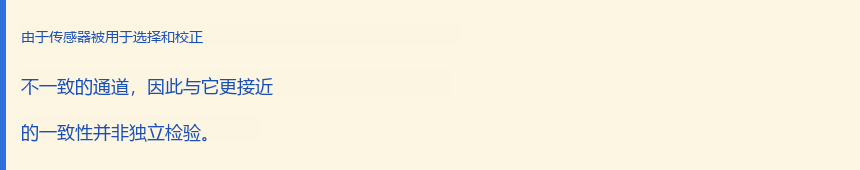
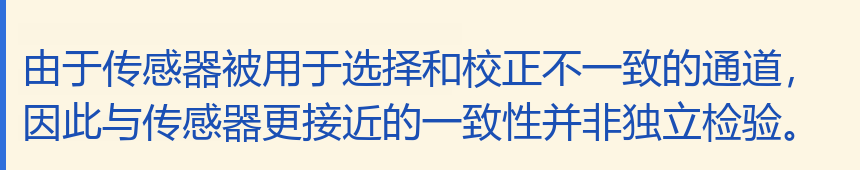
0.5.0: paragraph-level translation placed in each paragraph area

Changed region(s): [[0.0302, 0.2941, 0.9372, 0.5588], [0.0, 0.5882, 0.9372, 0.8529], [0.0302, 0.1765, 0.2419, 0.2647]]

diff --git a/lib/index.js b/lib/index.js
@@ -808,6 +808,78 @@ export function apply(ctx, config = {}) {
     }
   }
 
+  function groupLines(lines) {
+    const items = (lines || [])
+      .filter((line) => line && typeof line === 'object' && String(line.text || '').trim())
+      .map((line) => ({
+        ...line,
+        x: Number(line.x) || 0,
+        y: Number(line.y) || 0,
+        w: Number(line.w) || 0,
+        h: Number(line.h) || 0,
+      }))
+      .sort((a, b) => a.y - b.y)
+    if (!items.length) return []
+    const heights = items.map((line) => line.h).sort((a, b) => a - b)
+    const medianH = heights[Math.floor(heights.length / 2)] || 18
+    const groups = []
+    let current = null
+    for (const line of items) {
+      if (!current) { current = [line]; continue }
+      const prev = current[current.length - 1]
+      const gap = line.y - (prev.y + prev.h)
+      const leftDiff = Math.abs(line.x - prev.x)
+      const ratio = line.h / Math.max(1, prev.h)
+      if (gap <= medianH * 0.9 && leftDiff <= Math.max(24, medianH)
+        && ratio >= 0.7 && ratio <= 1.5) {
+        current.push(line)
+      } else {
+        groups.push(current)
+        current = [line]
+      }
+    }
+    if (current) groups.push(current)
+    return groups.map((group) => {
+      const x0 = Math.min(...group.map((line) => line.x))
+      const y0 = Math.min(...group.map((line) => line.y))
+      const x1 = Math.max(...group.map((line) => line.x + line.w))
+      const y1 = Math.max(...group.map((line) => line.y + line.h))
+      return {
+        rect: { x: x0, y: y0, w: x1 - x0, h: y1 - y0 },
+        lines: group,
+        text: group.map((line) => String(line.text).trim()).join(' '),
+      }
+    })
+  }
+
+  async function aiTranslateBlocks(blocks, target) {
+    if (!llmService) return null
+    const picked = await pickModel(false)
+    if (!picked) return null
+    const source = blocks.map((block, index) => `【${index + 1}】${block.text}`).join('\n')
+    const prompt = [
+      `把下面每个段落的文字翻译成${targetName(target)}。`,
+      '必须保持段落数完全一致：第 i 段译文对应第 i 段原文，不要合并、不要拆分、不要省略编号。',
+      '原文可能来自 OCR，包含错字；请结合上下文纠正。术语：bin→频段、spectral index→光谱指数、leave-one-pair-out→留一配对交叉验证、fit→拟合。',
+      '只返回 JSON 数组，长度等于段落数，每个元素是该段译文：',
+      '["译文1","译文2", ...]',
+      '',
+      source,
+    ].join('\n')
+    const raw = await streamModel(picked, [{ type: 'text', text: prompt }], 5000)
+    let text = String(raw || '').trim().replace(/^```(?:json)?\s*/i, '').replace(/```\s*$/i, '').trim()
+    const start = text.indexOf('[')
+    const end = text.lastIndexOf(']')
+    if (start < 0 || end <= start) return null
+    try {
+      const value = JSON.parse(text.slice(start, end + 1))
+      if (!Array.isArray(value) || value.length !== blocks.length) return null
+      return value.map((item) => String(item ?? '').trim())
+    } catch {
+      return null
+    }
+  }
+
   aiTextHook = aiTranslateText
   aiVisionHook = aiTranslateImage
   log('ai translation', llmService ? 'available' : 'unavailable', attachmentService ? 'attachments' : 'no-attachments')
@@ -830,7 +902,36 @@ export function apply(ctx, config = {}) {
       log('ocr done', analysis.text.length, 'lines', analysis.lines.length, 'ai', ai ? 'yes' : 'no')
       const ocrText = tidyOcr(analysis.text)
 
-      // 逐行模式：每条 OCR 行单独翻译，画回它原来的行框，位置天然贴合原文。
+      // 段落模式：先按行距/缩进/字号把 OCR 行分成段落，整段翻译，再整块回填到该段矩形里。
+      // 这样跨行的句子不会被切断，整页多段也不会挤成一个块。
+      const blocks = groupLines(analysis.lines)
+      let blockTranslations = null
+      if (blocks.length > 0 && blocks.length <= 40) {
+        blockTranslations = await aiTranslateBlocks(blocks, targetLanguage).catch((error) => {
+          log('block translate failed', error?.message || String(error))
+          return null
+        })
+      }
+      if (blockTranslations && blockTranslations.length === blocks.length) {
+        const payloadBlocks = blocks.map((block, index) => ({ ...block, translated: blockTranslations[index] }))
+        const joined = blockTranslations.join(' ')
+        log('block mode', payloadBlocks.length, joined.slice(0, 40))
+        await helper.place({
+          rect: shot.rect,
+          imagePath: shot.path,
+          blocks: payloadBlocks,
+          original: (ai?.source || '').trim() || ocrText,
+          translated: joined,
+          source: 'auto',
+          target: targetLanguage,
+          provider: 'DeepSeek',
+        })
+        try { unlinkSync(shot.path) } catch {}
+        log('place sent (blocks)')
+        return { text: ocrText, translated: joined, provider: 'DeepSeek', source: 'auto', target: targetLanguage }
+      }
+
+      // 逐行兜底：段落翻译失败时，每条 OCR 行单独翻译，画回原来的行框。
       const rawLines = (analysis.lines || []).filter(
         (item) => item && typeof item === 'object' && String(item.text || '').trim())
       let perLine = null
@@ -911,7 +1012,7 @@ export function apply(ctx, config = {}) {
             pin: existsSync(join(LIB, 'pinwin.py')),
             target: targetLanguage,
             python: findPython(),
-            version: '0.4.1',
+            version: '0.5.0',
             hotkey: helper.hotkeyActive(),
           })
         }
@@ -1032,6 +1133,7 @@ export function apply(ctx, config = {}) {
     }, 1500)
   }
 }
+
 
 
 

diff --git a/lib/client.js b/lib/client.js
@@ -517,7 +517,7 @@ window.__ModuleLoader__.load({
 			window.__DTP_ACTIVE__ = api;
 			ctx.effect(() => () => dispose());
 			try {
-				Promise.resolve(callApi("clientReady", { version: "0.4.1" })).catch(() => {});
+				Promise.resolve(callApi("clientReady", { version: "0.5.0" })).catch(() => {});
 				Promise.resolve(callApi("capabilities"))
 					.then((value) => {
 						if (value && typeof value.target === "string") state.targetDefault = value.target;
@@ -560,6 +560,7 @@ window.__ModuleLoader__.load({
 		return module.exports;
 	},
 });
+
 
 
 

diff --git a/lib/pinwin.py b/lib/pinwin.py
@@ -516,10 +516,16 @@ class InPlaceWindow:
 
         self.bg, self.fg = self._sample_colors(self.crop)
         raw_lines = payload.get("lines") or []
+        raw_blocks = payload.get("blocks") or []
+        block_mode = bool(raw_blocks) and any(
+            isinstance(item, dict) and str(item.get("translated") or "").strip()
+            for item in raw_blocks)
         line_mode = bool(raw_lines) and any(
             isinstance(item, dict) and str(item.get("translated") or "").strip()
             for item in raw_lines)
-        if line_mode:
+        if block_mode:
+            base, original_img = self._compose_blocks(raw_blocks, w, h)
+        elif line_mode:
             base, original_img = self._compose_lines(raw_lines, w, h)
         else:
             line_rects = self._line_rects(raw_lines, w, h)
@@ -929,6 +935,78 @@ class InPlaceWindow:
             painter.text((x, y), line, font=font, fill=style["fg"])
 
         return base, self.crop.copy(), base.height
+
+    def _compose_blocks(self, blocks, width, height):
+        """按段落块翻译：整段文字在块内重新排版，但整块落在原文段落所在的矩形里。"""
+        base = self.crop.copy()
+        painter = ImageDraw.Draw(base)
+        font_path = self._font_path("中文")
+        for block in blocks:
+            if not isinstance(block, dict):
+                continue
+            text = str(block.get("translated") or "").strip()
+            lines = [item for item in (block.get("lines") or []) if isinstance(item, dict)]
+            rect = block.get("rect") or {}
+            if not text or not lines:
+                continue
+            try:
+                bx = int(rect.get("x", 0))
+                by = int(rect.get("y", 0))
+                bw = int(rect.get("w", 0))
+                bh = int(rect.get("h", 0))
+            except Exception:
+                continue
+            if bw < 20 or bh < 10:
+                continue
+            style = self._line_style(
+                (max(0, bx), max(0, by), min(width, bx + bw), min(height, by + bh)),
+                width, height)
+            # 只抹掉这个块里每一行文字，保留引用框的底色/竖线/边框。
+            for item in lines:
+                try:
+                    x0 = int(item.get("x", 0))
+                    y0 = int(item.get("y", 0))
+                    lw = int(item.get("w", 0))
+                    lh = int(item.get("h", 0))
+                except Exception:
+                    continue
+                if lw <= 0 or lh <= 0:
+                    continue
+                painter.rectangle(
+                    [max(0, x0 - 3), max(0, y0 - 3),
+                     min(width - 1, x0 + lw + 2), min(height - 1, y0 + lh + 2)],
+                    fill=style["bg"])
+            block_w = max(20, bw)
+            block_h = max(10, bh)
+            chosen = None
+            for size in range(max(7, min(40, int(block_h * 0.92))), 6, -1):
+                try:
+                    font = ImageFont.truetype(font_path, size) if font_path else ImageFont.load_default()
+                except Exception:
+                    font = ImageFont.load_default()
+                spacing = max(2, int(size * 0.35))
+                wrapped = self._wrap(painter, text, font, block_w)
+                total = len(wrapped) * size + (len(wrapped) - 1) * spacing
+                widest = max(painter.textlength(line, font=font) for line in wrapped)
+                if total <= block_h - 2 and widest <= block_w:
+                    chosen = (size, font, wrapped, spacing)
+                    break
+            if chosen is None:
+                size = 7
+                try:
+                    font = ImageFont.truetype(font_path, size) if font_path else ImageFont.load_default()
+                except Exception:
+                    font = ImageFont.load_default()
+                spacing = 0
+                wrapped = self._wrap(painter, text, font, block_w)
+                chosen = (size, font, wrapped, spacing)
+            size, font, wrapped, spacing = chosen
+            total = len(wrapped) * size + max(0, len(wrapped) - 1) * spacing
+            y = by + max(0, (block_h - total) // 2)
+            for line in wrapped:
+                painter.text((bx, y), line, font=font, fill=style["fg"])
+                y += size + spacing
+        return base, self.crop.copy()
 
     def _compose_lines(self, lines, width, height):
         """逐行替换：每条 OCR 行用自己的译文画回原来的行框，保证位置贴着原文。"""

diff --git a/tools/make_demo.py b/tools/make_demo.py
@@ -34,14 +34,13 @@ obj = object.__new__(pinwin.InPlaceWindow)
 obj.crop = before
 obj.bg = BG
 obj.fg = FG
-zh_lines = [
-    "由于传感器被用于选择和校正",
-    "不一致的通道，因此与它更接近",
-    "的一致性并非独立检验。",
-]
-lines = []
-for (x0, y0, x1, y1), zh in zip(rects, zh_lines):
-    lines.append({"x": x0, "y": y0, "w": x1 - x0, "h": y1 - y0, "translated": zh})
-after, _ = obj._compose_lines(lines, W, H)
+zh = "由于传感器被用于选择和校正不一致的通道，因此与传感器更接近的一致性并非独立检验。"
+block = {
+    "rect": {"x": 22, "y": 22, "w": 800, "h": 128},
+    "lines": [{"x": x0, "y": y0, "w": x1 - x0, "h": y1 - y0} for x0, y0, x1, y1 in rects],
+    "translated": zh,
+}
+after, _ = obj._compose_blocks([block], W, H)
 after.save("docs/demo-after.png")
 print("before", before.size, "after", after.size)
+

diff --git a/README.md b/README.md
@@ -8,7 +8,7 @@
 Selection and screenshot translation for DeepSeek Harness (Windows): DeepSeek vision reads the captured screenshot and the Chinese translation replaces the original area in place, so the page looks like it was written in Chinese.
 
 - **划词翻译**：在 DSH 里用鼠标选中外文，选区旁浮出「译」按钮，点一下就地出译文卡片。
-- **截图翻译**：框选屏幕上任意区域后，**逐行**识别并翻译：每一行英文的译文都画回这一行原来的位置，行距、颜色、引用框的底色/左侧竖线/边框都保留（字重统一正常体），整页多段也能对得上位置。
+- **截图翻译**：框选屏幕上任意区域后，自动按行距/缩进/字号把 OCR 行分成段落，**整段翻译**，再把整段译文回填到该段所在的区域；跨行句子不会被切断，引用框的底色/左侧竖线/边框和文字颜色都保留。
 - **问 AI**：框选后点「✨ 问 AI」，保留截图直接和模型对话，可以连续追问这张图里的内容。
 - **桌面浮标 + 全局快捷键**：右下角常驻「译」浮标，`Ctrl+Shift+S` 全局可用；**DSH 最小化后仍然在桌面上**，不用先切回 DSH。
 - **钉在桌面**：划词结果卡片可以「钉在桌面」，得到始终置顶、可拖动、可复制的对照小窗。
@@ -102,13 +102,13 @@ dsh plugin --profile <profile> add <本目录>
 1. 点击右下角「截图翻译」、桌面「译」浮标，或按 `Ctrl+Shift+S`（全局，DSH 最小化也能按）；
 2. 屏幕变暗，从**鼠标按下的那一点**开始拖拽框选；
 3. 松开后**不会立即翻译**：选区保持不动，右下角出现「✓ 翻译 / ✨ 问 AI / × 取消」；点 ✓ 才开始截图翻译，点 ✨ 打开问 AI 窗口，点 × 或 `Esc` 直接取消；想改范围就重新拖一次；
-4. 确认后 Windows OCR 先取每一行的行框与文字，DeepSeek 逐行翻译（保持行数一致），再生成一张**合成图**：每一行中文画回原来的行框，逐行采样底色和文字颜色，引用框的底色、左侧竖线、边框原样保留——每一行译文都贴着对应原文的位置；
+4. 确认后 Windows OCR 先取每一行的行框与文字，按行距/缩进/字号分成段落，DeepSeek 整段翻译，再生成一张**合成图**：每个段落的中文在它原来的矩形内重新排版，逐段采样底色和文字颜色，引用框的底色、左侧竖线、边框原样保留——每段译文都落在原文所在的区域里；
 5. 静止时有 **3px 直角灰色渐变边框**（外 `#9aa0aa` → 内 `#d9dce2`，无圆角，画在框选区域外侧，不遮译文）；鼠标移上去才出现「📌 / 复制 / 原文 / ×」小工具条——工具条沿用译文框的底色、文字色和 1px 灰色描边，风格与译文框一致，显示在译文框**外**（优先上方，贴边时放下方），不会遮住译文，鼠标移开即隐藏（按钮已加大到 10~11pt，点起来更稳）；
 6. 按住左键可以拖动译文框（光标是移动图标）；工具条里的 **📌 图钉**用来切换“是否始终置顶”（默认钉住，点一下取消，再点恢复）；双击切换「译文 / 原文」，右键有菜单，`Esc` 关闭。
 
 > 译文字号按原英文文字块的大小自动缩放：先按原行高/行距选字号，放不下就继续缩小，直到整段落在原文字区域内，不会向下撑出原区域。背景按局部底色采样，深色/浅色页面、灰底引用块都能融进去。
 
-> 译文行数与原文一致时逐行落在原文行位置；中文更短时从原文第一行开始、按正常行距排版。整页多段混排建议一次框一个块。译文按每一行原始文字采样底色和文字主色（取该行像素里占比最大的文字颜色，不会被个别红字/抗锯齿边缘带偏）：原文是蓝色、带引用框，中文也会是蓝色，但统一用正常字重，引用框的底色/左侧竖线/边框保持原样。
+> 每个段落单独排版、单独回填；整页多段混排也能各归各位。译文按每一段原始文字采样底色和文字主色（取该行像素里占比最大的文字颜色，不会被个别红字/抗锯齿边缘带偏）：原文是蓝色、带引用框，中文也会是蓝色，但统一用正常字重，引用框的底色/左侧竖线/边框保持原样。
 
 > 框选与截图坐标是 1:1 的物理像素，不会再出现“框比鼠标慢半拍/起点偏移”的问题。
 
@@ -210,6 +210,7 @@ dsh-translate-pin/
 ## License
 
 MIT
+
 
 
 

diff --git a/RELEASE_NOTES.md b/RELEASE_NOTES.md
@@ -1,7 +1,6 @@
-0.4.1
+0.5.0
 
-- 截图翻译改为逐行翻译、逐行回填：每条 OCR 行单独翻译，译文画回这一行原来的行框，整页多段也能贴住原文位置。
-- 每行保留原来的底色、文字颜色、引用框左侧竖线与边框；行距按原文行距。
-- 修复整页选择时译文被压缩、出现空白框、位置错位的问题。
-- 保留「问 AI」、正常字重、字号不溢出、确认/取消、桌面图钉等能力。
-
+- 截图翻译改为按段落分块：按行距/缩进/字号把 OCR 行分组，整段翻译，再回填到该段所在的矩形区域。
+- 跨行句子不再被切断；整页多段各归各位，不会挤成一个块。
+- 每个段落单独采样底色/文字颜色，引用框左侧竖线与边框保留。
+- 逐行翻译保留为段落翻译失败时的兜底。
